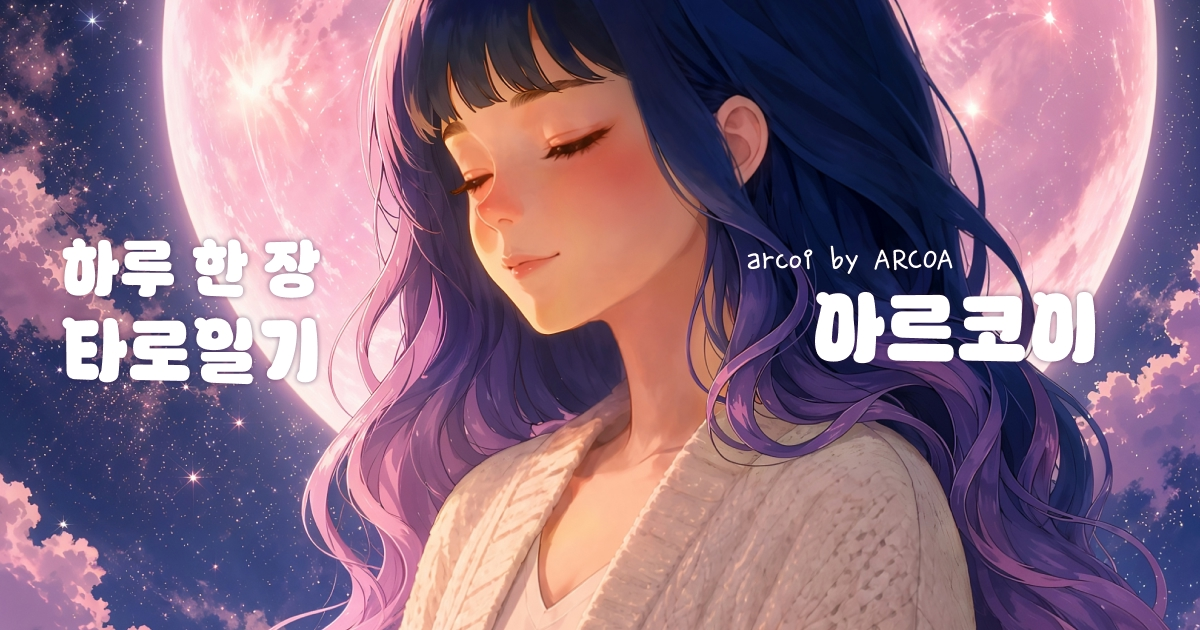
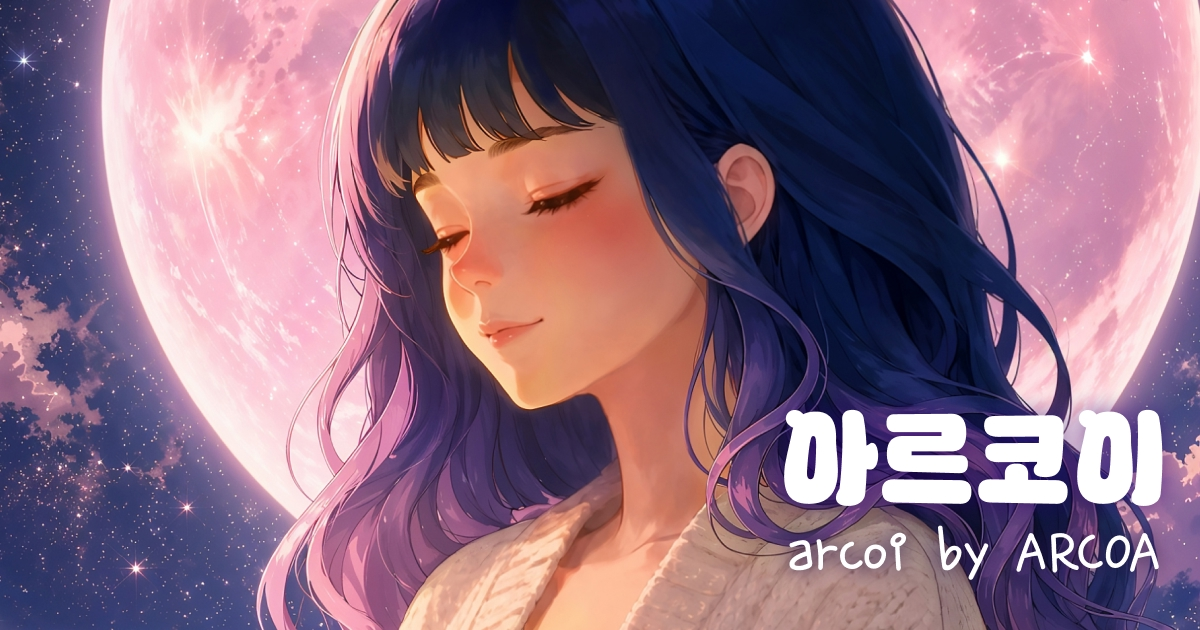
배경 리터치

diff --git a/src/sections/Empathy.tsx b/src/sections/Empathy.tsx
@@ -55,7 +55,7 @@ export default function Empathy() {
       id="empathy"
       style={{
         padding: isMobile ? '120px 16px' : 'clamp(120px, 10vw, 240px) 24px',
-        background: 'linear-gradient(180deg, #201A2E 0%, #0C0F1D 100%)',
+        background: '#211E38',
         overflow: 'hidden',
       }}
     >
@@ -136,7 +136,7 @@ export default function Empathy() {
                     backfaceVisibility: 'hidden',
                     transform: 'rotateY(180deg)',
                     borderRadius: isMobile ? '12px' : '16px',
-                    padding: isMobile ? '12px 36px' : 'clamp(20px,3vw,40px) clamp(16px,2vw,40px)',
+                    padding: isMobile ? '12px 30px' : 'clamp(20px,3vw,30px) clamp(16px,2vw,30px)',
                     display: 'flex', flexDirection: 'column',
                     justifyContent: 'center', alignItems: 'center', textAlign: 'center',
                     backgroundImage: `url(${card.image})`,

diff --git a/src/sections/Teaser.tsx b/src/sections/Teaser.tsx
@@ -29,7 +29,7 @@ export default function Teaser() {
       <div style={{
         position: 'absolute',
         inset: 0,
-        background: 'rgba(8,8,16,0.15)',
+        background: 'rgba(8,8,16,0.33)',
         zIndex: 1,
       }} />
 
@@ -38,16 +38,7 @@ export default function Teaser() {
         position: 'absolute',
         top: 0, left: 0, right: 0,
         height: '120px',
-        background: 'linear-gradient(to bottom, #101520, transparent)',
-        zIndex: 2,
-      }} />
-
-      {/* 하단 페이드 */}
-      <div style={{
-        position: 'absolute',
-        bottom: 0, left: 0, right: 0,
-        height: '120px',
-        background: 'linear-gradient(to top, #121212, transparent)',
+        background: 'linear-gradient(to bottom, #161923, transparent)',
         zIndex: 2,
       }} />
 

diff --git a/src/sections/Hero.tsx b/src/sections/Hero.tsx
@@ -57,7 +57,7 @@ export default function Hero() {
         style={{
           position: 'absolute',
           inset: 0,
-          background: 'linear-gradient(to right, rgba(13,11,30,0.7) 0%, rgba(13,11,30,0.3) 35%, transparent 55%)',
+          background: 'linear-gradient(to right, rgba(13,11,30,0.1) 0%, rgba(13,11,30,0.1) 35%, transparent 55%)',
           zIndex: 1,
         }}
       />
@@ -69,8 +69,8 @@ export default function Hero() {
           bottom: 0,
           left: 0,
           right: 0,
-          height: '100px',
-          background: 'linear-gradient(to bottom, transparent, #1A1A2E)',
+          height: '80px',
+          background: 'linear-gradient(to bottom, transparent, #24213C)',
           zIndex: 2,
         }}
       />

diff --git a/src/sections/HowItWorks.tsx b/src/sections/HowItWorks.tsx
@@ -63,7 +63,7 @@ export default function HowItWorks() {
   if (isMobile) {
     return (
       <section id="how-it-works" 
-        style={{ padding: '100px 24px', background: '#0C0F1D', overflow: 'hidden' }}
+        style={{ padding: '100px 24px', background: '#131123', overflow: 'hidden' }}
         onTouchStart={handleTouchStart}
         onTouchEnd={handleTouchEnd}
       >
@@ -147,7 +147,7 @@ export default function HowItWorks() {
       style={{
         height: `${steps.length * 60}vh`,
         position: 'relative',
-        background: '#0C0F1D',
+        background: 'linear-gradient(180deg, #131123 0%, #111111 100%)',
       }}
     >
       <div style={{

diff --git a/src/sections/Characters.tsx b/src/sections/Characters.tsx
@@ -65,7 +65,7 @@ export default function Characters() {
       id="characters" 
       style={{
         padding: 'clamp(120px, 10vw, 240px) 0',
-        background: '#0A0A0A',
+        background: '#111111',
         position: 'relative',
         overflow: 'hidden',
       }}

diff --git a/src/sections/FAQ.tsx b/src/sections/FAQ.tsx
@@ -37,7 +37,7 @@ export default function FAQ() {
     <section id="faq" 
       style={{
         padding: isMobile ? '60px 24x' : 'clamp(120px, 12vw, 160px) 24px',
-        background: '#101520',
+        background: '#161923',
         position: 'relative',
       }}
     >

diff --git a/src/sections/Footer.tsx b/src/sections/Footer.tsx
@@ -5,7 +5,7 @@ export default function Footer() {
 
   return (
     <footer style={{
-      background: '#121212',
+      background: '#161923',
       padding: isMobile ? '60px 24px 56px' : '80px 28px 64px',
     }}>
       <div style={{
